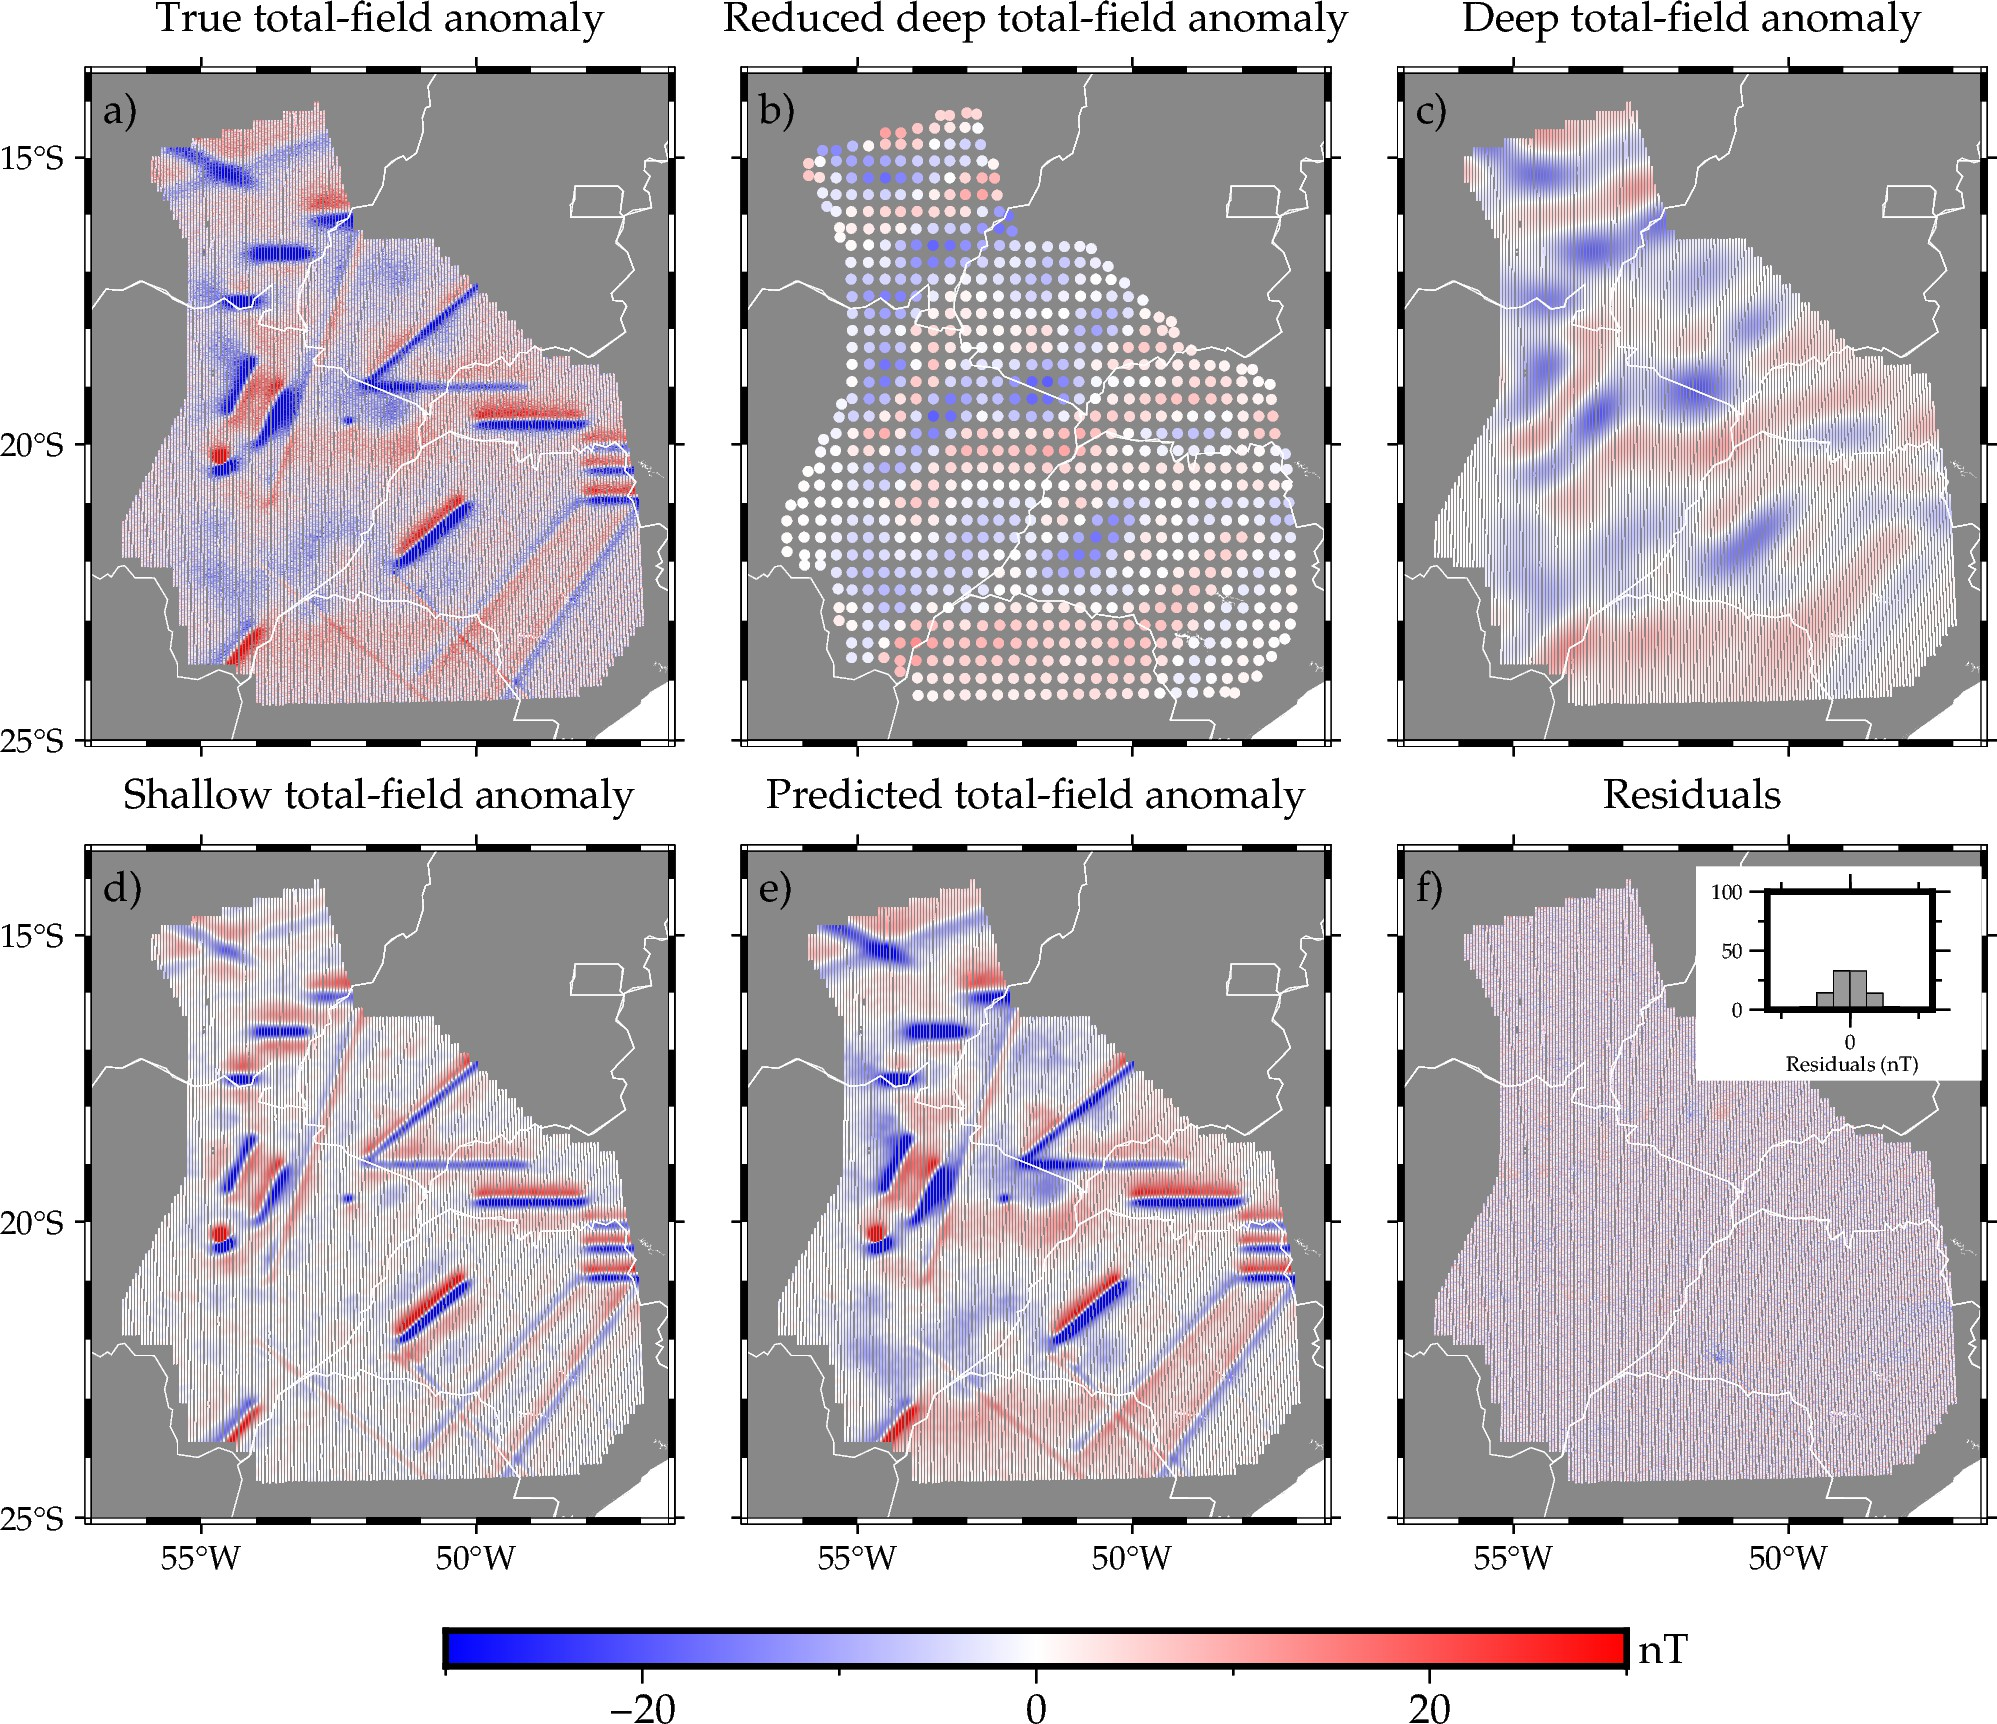
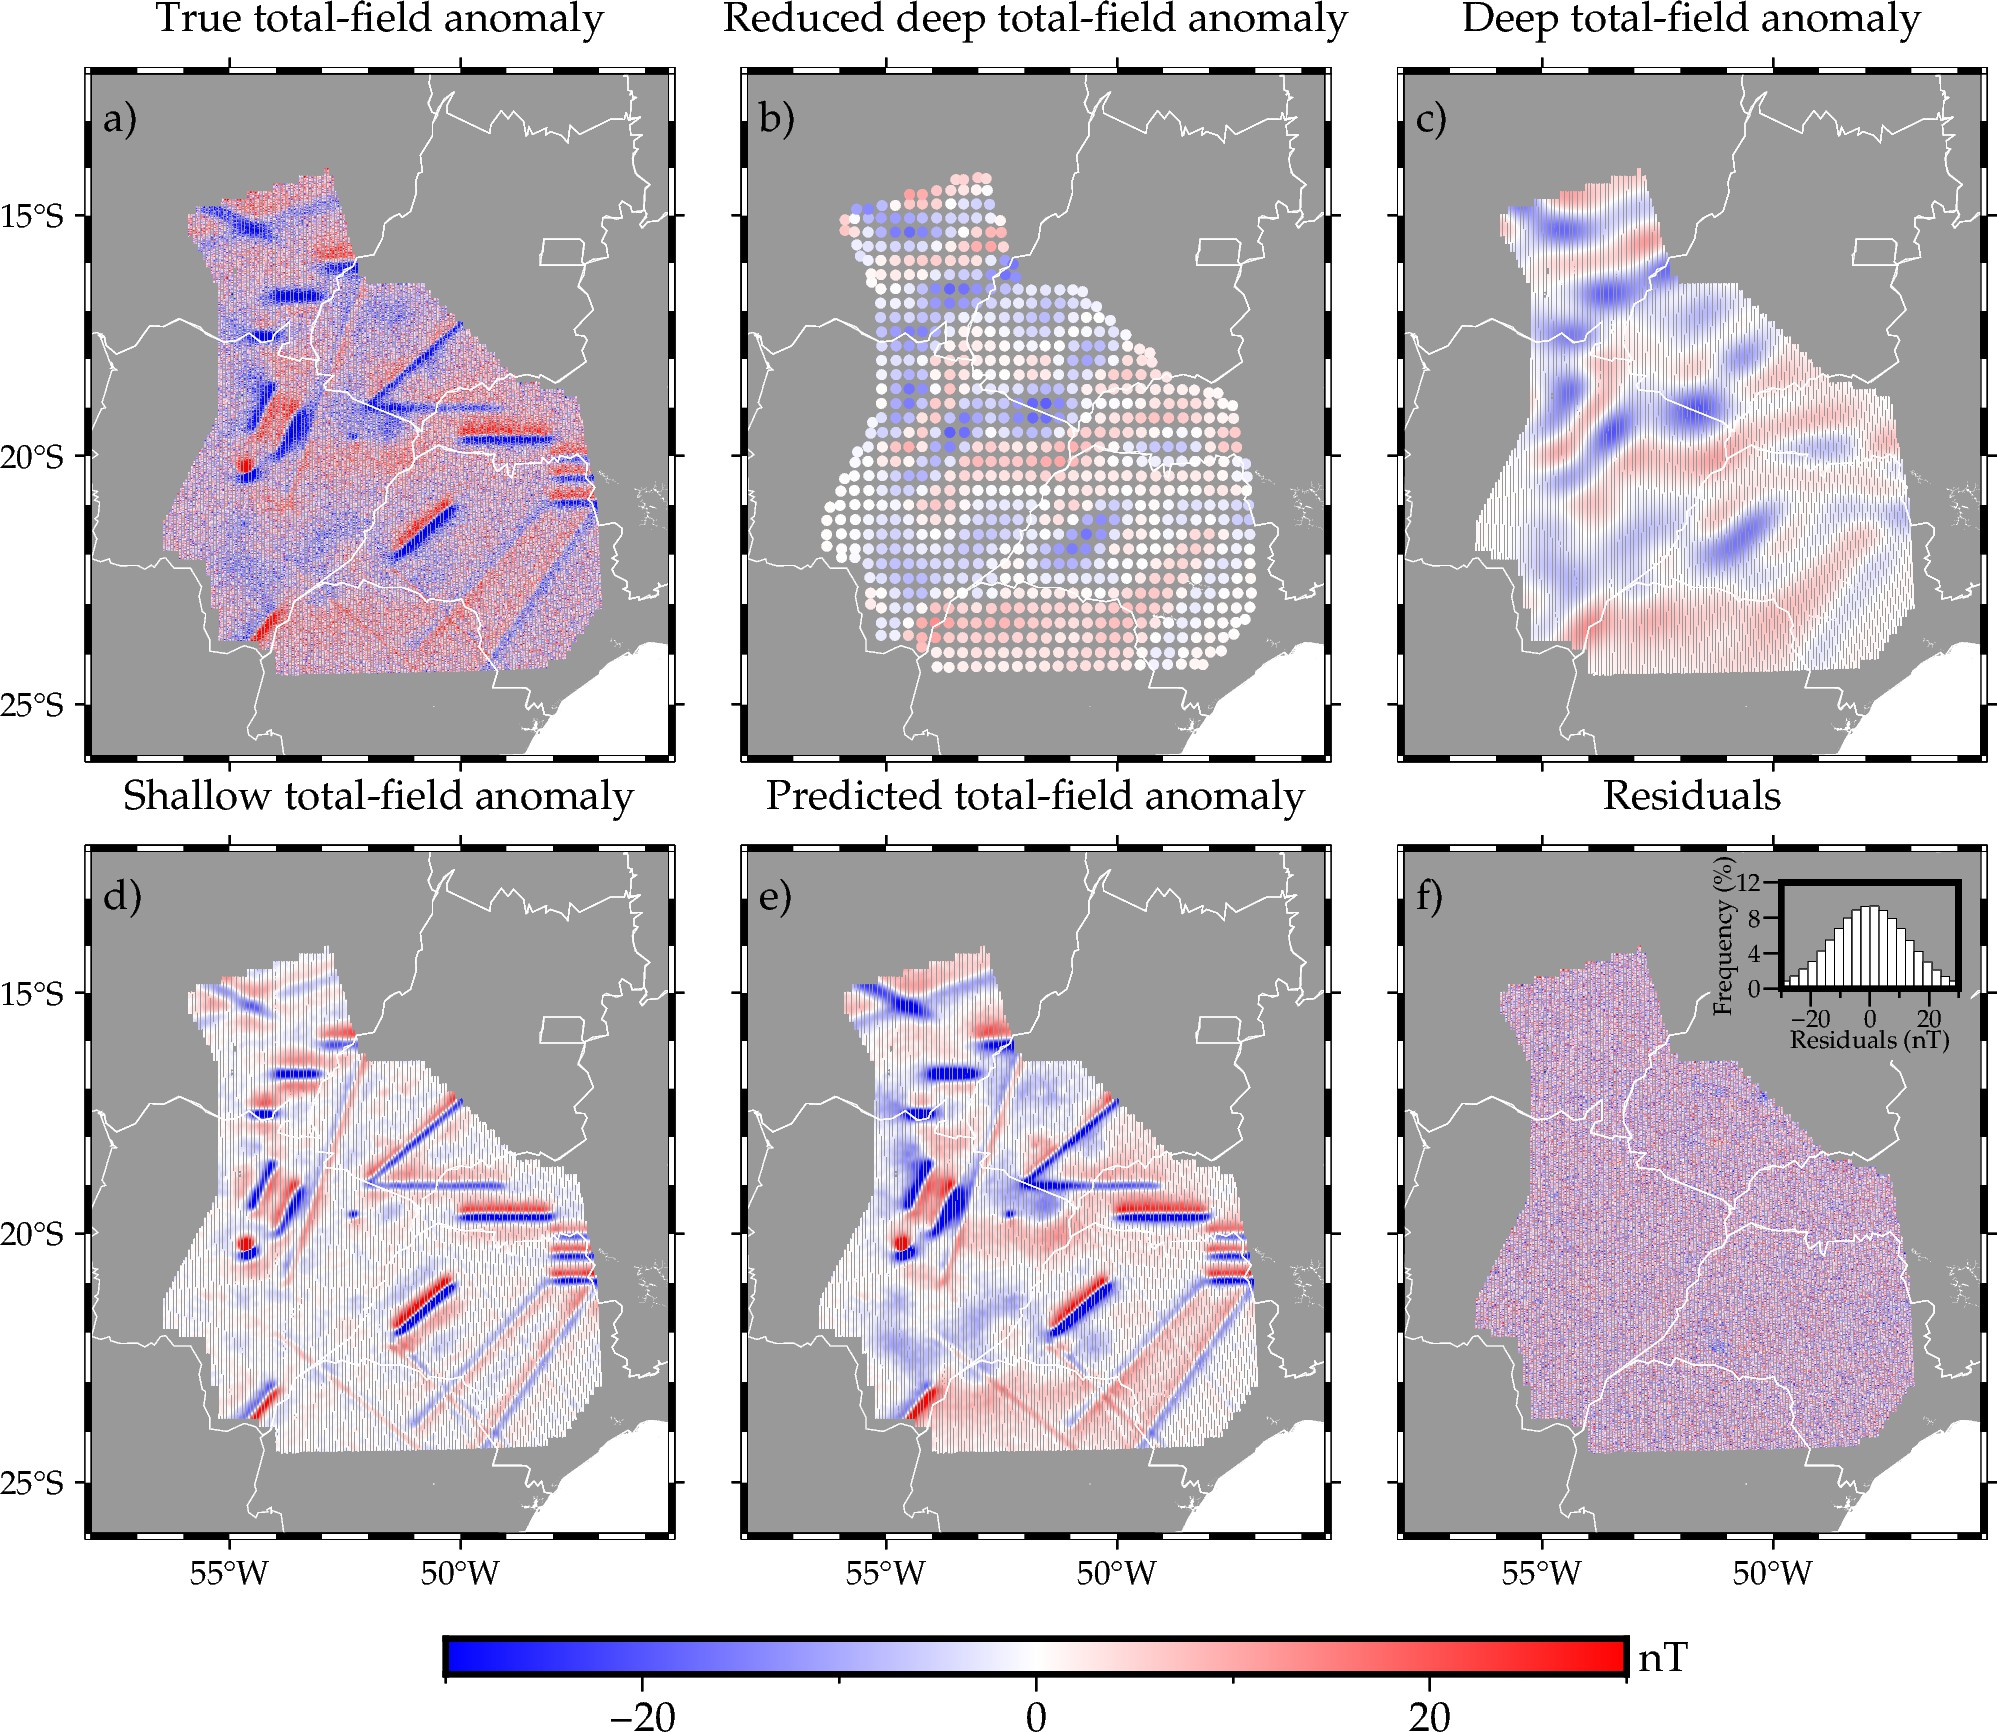
Add the final part with the chart of the dual-layey also add the figures with the newer version of the histograms

diff --git a/paper/dissertation.tex b/paper/dissertation.tex
@@ -760,6 +760,23 @@ and its components (e.g., $B_r, B_\theta, B_\lambda$) at any location
 This capability of retrieving the vector field directly from the equivalent sources makes the method
 particularly powerful for multi-scale magnetic modeling \citep{Li2020, Uppal2025}.
 
+To accurately model complex magnetic anomalies, we employ the dual-layer
+gradient-boosted equivalent sources method introduced by \citet{Uppal2025}, illustrated in Figure~\ref{fig:dual_layer_flowchart}, 
+this methodology first fits a deep layer of equivalent sources using block-averaged
+or decimated data to capture the regional, long-wavelength signals.
+Subsequently, a shallow layer is fitted to the residuals of the deep layer to
+resolve the short-wavelength components. The final predicted field
+is then obtained by combining the contributions from both layers.
+
+\begin{figure}[htpb]
+\centering
+\includegraphics[width=\textwidth]{figures/fluxogram-dual-layer.png}
+\caption{Flowchart of the dual-layer equivalent sources method,
+illustrating the data decimation, deep source fitting, residual
+calculation, and final grid prediction \citep{Uppal2025}.}
+\label{fig:dual_layer_flowchart}
+\end{figure}
+
 \section{Gradient boosting on the sphere}
 
 To address the computational challenges associated with inverting large-scale datasets, we adopt the
